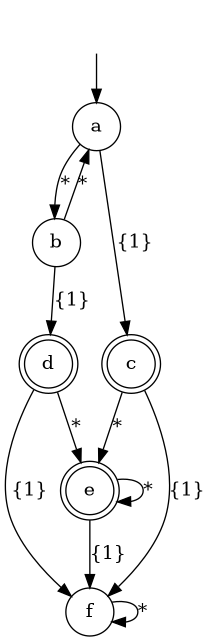
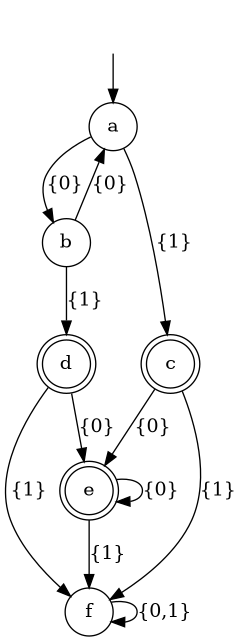
Make visualisations look more like wiki examples

diff --git a/README.md b/README.md
@@ -19,17 +19,13 @@ This example ghci session converts the NFA shown on the
 [wikipedia article about the powerset construction](https://en.wikipedia.org/wiki/Powerset_construction)
 into a DFA, using the aforementioned powerset construction.
 
-The conversion assumes that tokens other than `0` and `1` may appear
-in the input. Because of this, the resulting DFA looks different from
-the one on wikipedia.
-
 ``` haskell
 >>> Just a = nfa [ (1,[(only "0",2)],[3]), (2,[(only "1",2),(only "1",4)],[]), (3,[(only "0",4)],[2]), (4,[(only "0",3)],[]) ] (1::Int) [3,4]
 >>> saveDotAsPng "nfa.png" $ nfaToDot a
 ```
 ![](resources/conversion_example_nfa.png)
 ``` haskell
->>> saveDotAsPng "dfa.png" $ dfaToDot $ nfaToDfa a
+>>> saveDotAsPng "dfa.png" $ dfaToDotWithTokens "01" $ nfaToDfa a
 ```
 ![](resources/conversion_example_dfa.png)
 
@@ -38,16 +34,12 @@ the one on wikipedia.
 This example ghci session minimizes the DFA shown on the
 [wikipedia article about DFA minimization](https://en.wikipedia.org/wiki/DFA_minimization).
 
-Transitions for the token `1` are specified explicitly (where
-necessary), while transitions for the token `0` are represented by the
-default transition marked with `*`.
-
 ``` haskell
 >>> Just a = dfa [ ("a",[('1',"c")],"b"), ("b",[('1',"d")],"a"), ("c",[('1',"f")],"e"), ("d",[('1',"f")],"e"), ("e",[('1',"f")],"e"), ("f",[],"f") ] "a" ["c","d","e"]
->>> saveDotAsPng "dfa.png" $ dfaToDot a
+>>> saveDotAsPng "dfa.png" $ dfaToDotWithTokens "01" a
 ```
 ![](resources/minimization_example_dfa.png)
 ``` haskell
->>> saveDotAsPng "dfa_minimized.png" $ dfaToDot $ minimizeDfa a
+>>> saveDotAsPng "dfa_minimized.png" $ dfaToDotWithTokens "01" $ minimizeDfa a
 ```
 ![](resources/minimization_example_dfa_minimized.png)
